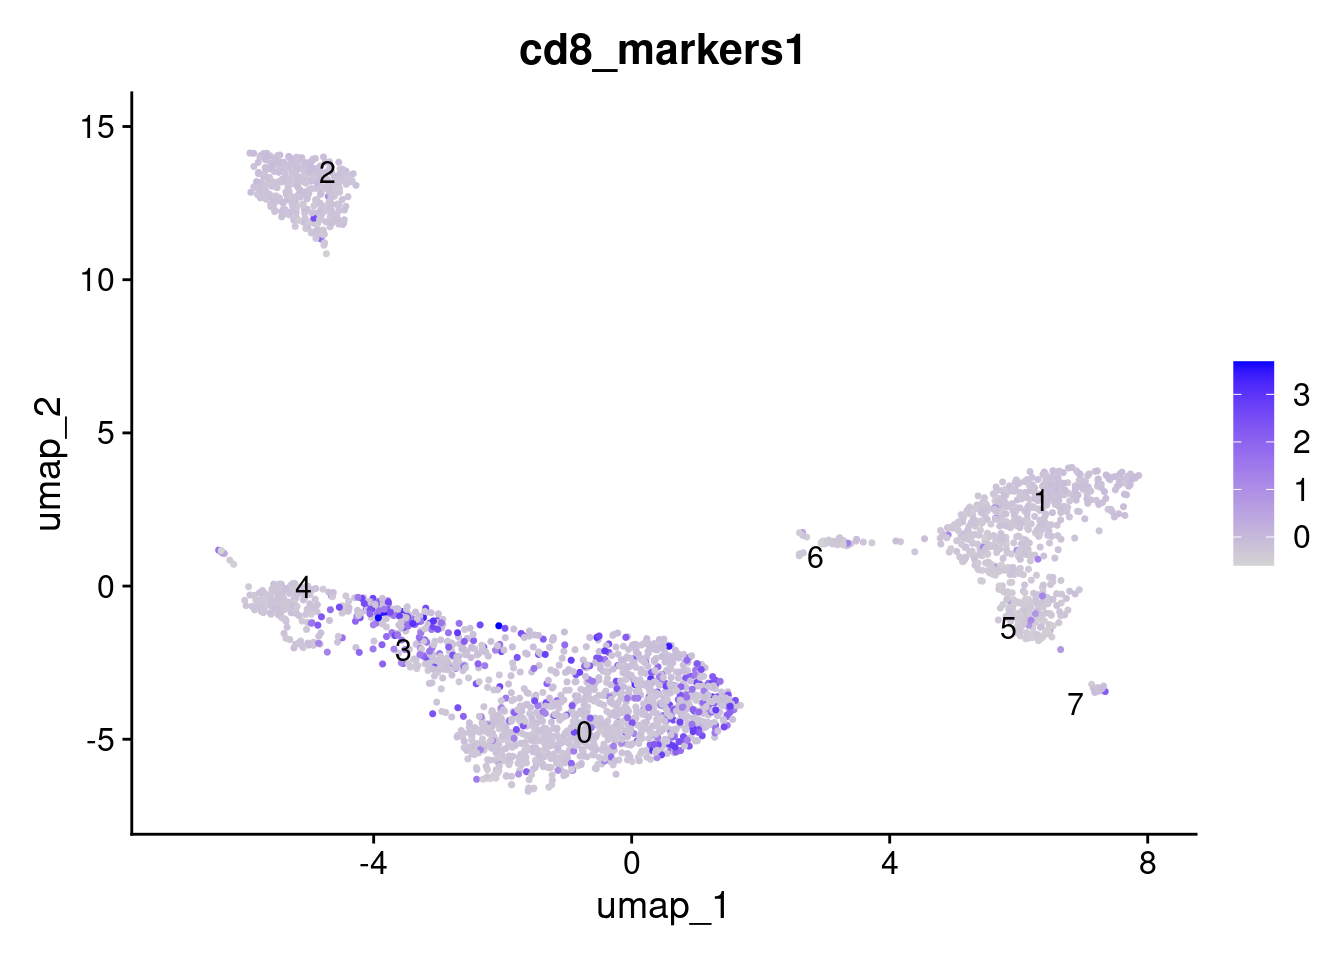
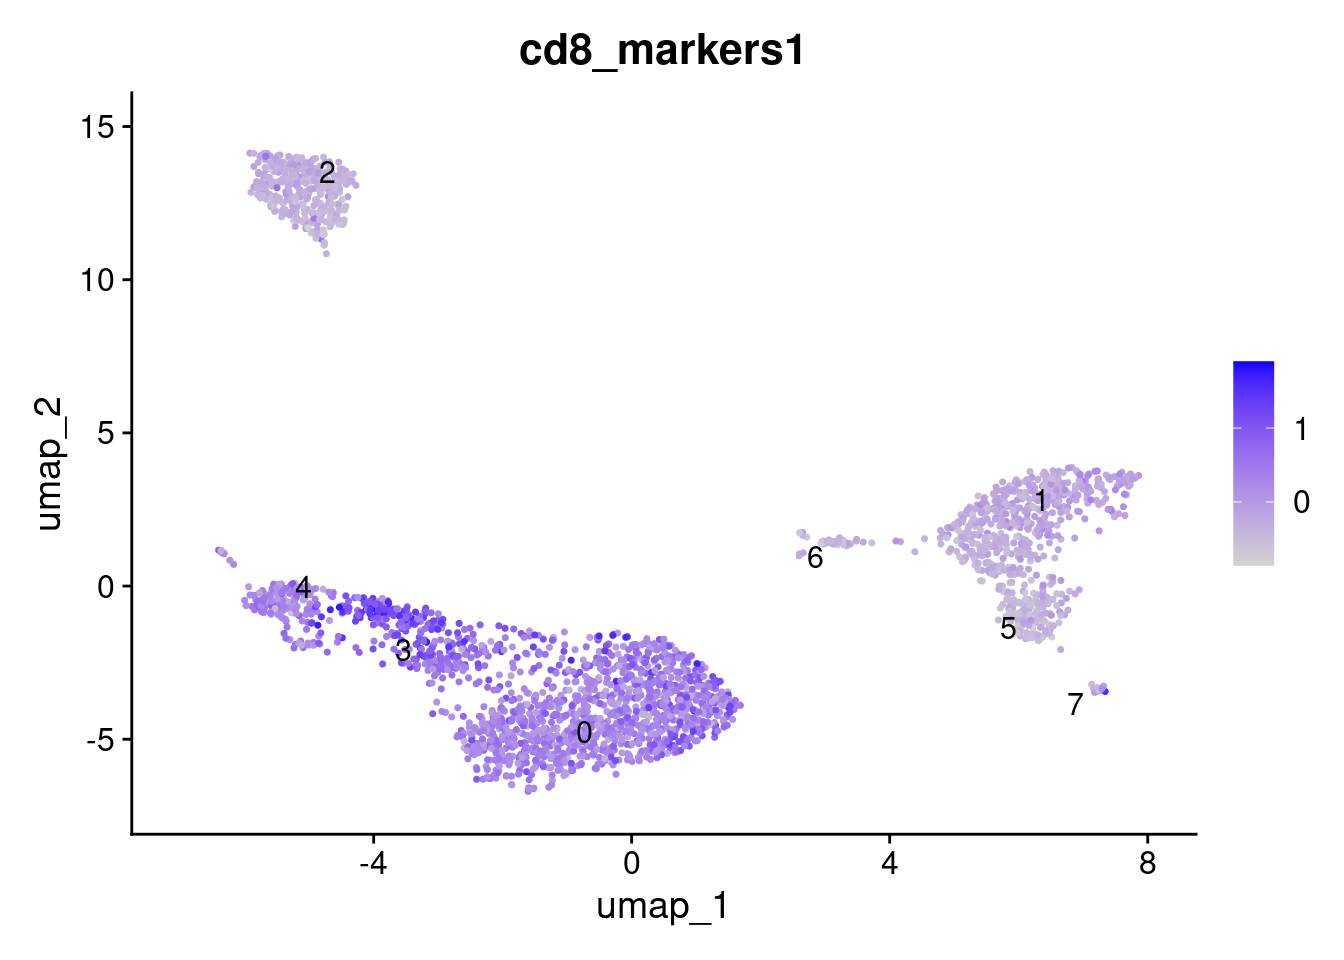
Build site.

diff --git a/docs/seurat_markers.html b/docs/seurat_markers.html
@@ -519,15 +519,15 @@ project makes it easier to run your code on other machines.</p>
 <div class="panel panel-default">
 <div class="panel-heading">
 <p class="panel-title">
-<a data-toggle="collapse" data-parent="#workflowr-checks" href="#strongRepositoryversionstrongahrefhttpsgithubcomdavetangmusetree1349d0c450cfd2d04ac10b46d1d9aa3b33f157a4targetblank1349d0ca">
+<a data-toggle="collapse" data-parent="#workflowr-checks" href="#strongRepositoryversionstrongahrefhttpsgithubcomdavetangmusetree7ed67d016e2e01ab4e942ddb2d84b1854737205btargetblank7ed67d0a">
 <span class="glyphicon glyphicon-ok text-success"
 aria-hidden="true"></span> <strong>Repository version:</strong>
-<a href="https://github.com/davetang/muse/tree/1349d0c450cfd2d04ac10b46d1d9aa3b33f157a4" target="_blank">1349d0c</a>
+<a href="https://github.com/davetang/muse/tree/7ed67d016e2e01ab4e942ddb2d84b1854737205b" target="_blank">7ed67d0</a>
 </a>
 </p>
 </div>
 <div
[2 lines of base64/hex data omitted]
 class="panel-collapse collapse">
 <div class="panel-body">
 <p>
@@ -537,7 +537,7 @@ reproducibility.
 </p>
 <p>
 The results in this page were generated with repository version
-<a href="https://github.com/davetang/muse/tree/1349d0c450cfd2d04ac10b46d1d9aa3b33f157a4" target="_blank">1349d0c</a>.
+<a href="https://github.com/davetang/muse/tree/7ed67d016e2e01ab4e942ddb2d84b1854737205b" target="_blank">7ed67d0</a>.
 See the <em>Past versions</em> tab to see a history of the changes made
 to the R Markdown and HTML files.
 </p>
@@ -619,6 +619,40 @@ Message
 </tr>
 </thead>
 <tbody>
+<tr>
+<td>
+Rmd
+</td>
+<td>
+<a href="https://github.com/davetang/muse/blob/7ed67d016e2e01ab4e942ddb2d84b1854737205b/analysis/seurat_markers.Rmd" target="_blank">7ed67d0</a>
+</td>
+<td>
+Dave Tang
+</td>
+<td>
+2025-02-19
+</td>
+<td>
+Features for add module score need to be in a list
+</td>
+</tr>
+<tr>
+<td>
+html
+</td>
+<td>
+<a href="https://rawcdn.githack.com/davetang/muse/61c73f84ef84a2d59f1fe4c4c3f79c7881085f73/docs/seurat_markers.html" target="_blank">61c73f8</a>
+</td>
+<td>
+Dave Tang
+</td>
+<td>
+2025-02-19
+</td>
+<td>
+Build site.
+</td>
+</tr>
 <tr>
 <td>
 Rmd
@@ -954,6 +988,43 @@ Active assay: RNA (13714 features, 2000 variable features)
 <p>UMAP.</p>
 <pre class="r"><code>DimPlot(seurat_obj, label = TRUE)</code></pre>
 <p><img src="figure/seurat_markers.Rmd/umap-1.png" width="672" style="display: block; margin: auto;" /></p>
+<p>
+<button type="button" class="btn btn-default btn-xs btn-workflowr btn-workflowr-fig" data-toggle="collapse" data-target="#fig-umap-1">
+Past versions of umap-1.png
+</button>
+</p>
+<div id="fig-umap-1" class="collapse">
+<div class="table-responsive">
+<table class="table table-condensed table-hover">
+<thead>
+<tr>
+<th>
+Version
+</th>
+<th>
+Author
+</th>
+<th>
+Date
+</th>
+</tr>
+</thead>
+<tbody>
+<tr>
+<td>
+<a href="https://github.com/davetang/muse/blob/61c73f84ef84a2d59f1fe4c4c3f79c7881085f73/docs/figure/seurat_markers.Rmd/umap-1.png" target="_blank">61c73f8</a>
+</td>
+<td>
+Dave Tang
+</td>
+<td>
+2025-02-19
+</td>
+</tr>
+</tbody>
+</table>
+</div>
+</div>
 <p>Known markers.</p>
 <pre class="r"><code>known_markers &lt;- tibble::tribble(
   ~Label, ~`Expanded Label`, ~`OBO Ontology ID`, ~Markers,
@@ -987,6 +1058,43 @@ known_markers</code></pre>
 Seurat::FeaturePlot(seurat_obj, features = cd8_markers)</code></pre>
 <pre><code>Warning: The following requested variables were not found: LINC02446, TRAC</code></pre>
 <p><img src="figure/seurat_markers.Rmd/cd8_markers-1.png" width="768" style="display: block; margin: auto;" /></p>
+<p>
+<button type="button" class="btn btn-default btn-xs btn-workflowr btn-workflowr-fig" data-toggle="collapse" data-target="#fig-cd8_markers-1">
+Past versions of cd8_markers-1.png
+</button>
+</p>
+<div id="fig-cd8_markers-1" class="collapse">
+<div class="table-responsive">
+<table class="table table-condensed table-hover">
+<thead>
+<tr>
+<th>
+Version
+</th>
+<th>
+Author
+</th>
+<th>
+Date
+</th>
+</tr>
+</thead>
+<tbody>
+<tr>
+<td>
+<a href="https://github.com/davetang/muse/blob/61c73f84ef84a2d59f1fe4c4c3f79c7881085f73/docs/figure/seurat_markers.Rmd/cd8_markers-1.png" target="_blank">61c73f8</a>
+</td>
+<td>
+Dave Tang
+</td>
+<td>
+2025-02-19
+</td>
+</tr>
+</tbody>
+</table>
+</div>
+</div>
 </div>
 <div id="find-all-markers" class="section level2">
 <h2>Find all markers</h2>
@@ -1581,7 +1689,7 @@ Dave Tang
 
 AddModuleScore(
   object = seurat_obj,
-  features = cd8_markers_found,
+  features = list(cd8_markers_found),
   name = &#39;cd8_markers&#39;
 ) -&gt; seurat_obj
 
@@ -1590,6 +1698,43 @@ FeaturePlot(
   features = &quot;cd8_markers1&quot;, label = TRUE, repel = TRUE
 )</code></pre>
 <p><img src="figure/seurat_markers.Rmd/add_module_score_cd8-1.png" width="672" style="display: block; margin: auto;" /></p>
+<p>
+<button type="button" class="btn btn-default btn-xs btn-workflowr btn-workflowr-fig" data-toggle="collapse" data-target="#fig-add_module_score_cd8-1">
+Past versions of add_module_score_cd8-1.png
+</button>
+</p>
+<div id="fig-add_module_score_cd8-1" class="collapse">
+<div class="table-responsive">
+<table class="table table-condensed table-hover">
+<thead>
+<tr>
+<th>
+Version
+</th>
+<th>
+Author
+</th>
+<th>
+Date
+</th>
+</tr>
+</thead>
+<tbody>
+<tr>
+<td>
+<a href="https://github.com/davetang/muse/blob/61c73f84ef84a2d59f1fe4c4c3f79c7881085f73/docs/figure/seurat_markers.Rmd/add_module_score_cd8-1.png" target="_blank">61c73f8</a>
+</td>
+<td>
+Dave Tang
+</td>
+<td>
+2025-02-19
+</td>
+</tr>
+</tbody>
+</table>
+</div>
+</div>
 <br>
 <p>
 <button type="button" class="btn btn-default btn-workflowr btn-workflowr-sessioninfo" data-toggle="collapse" data-target="#workflowr-sessioninfo" style="display: block;">
